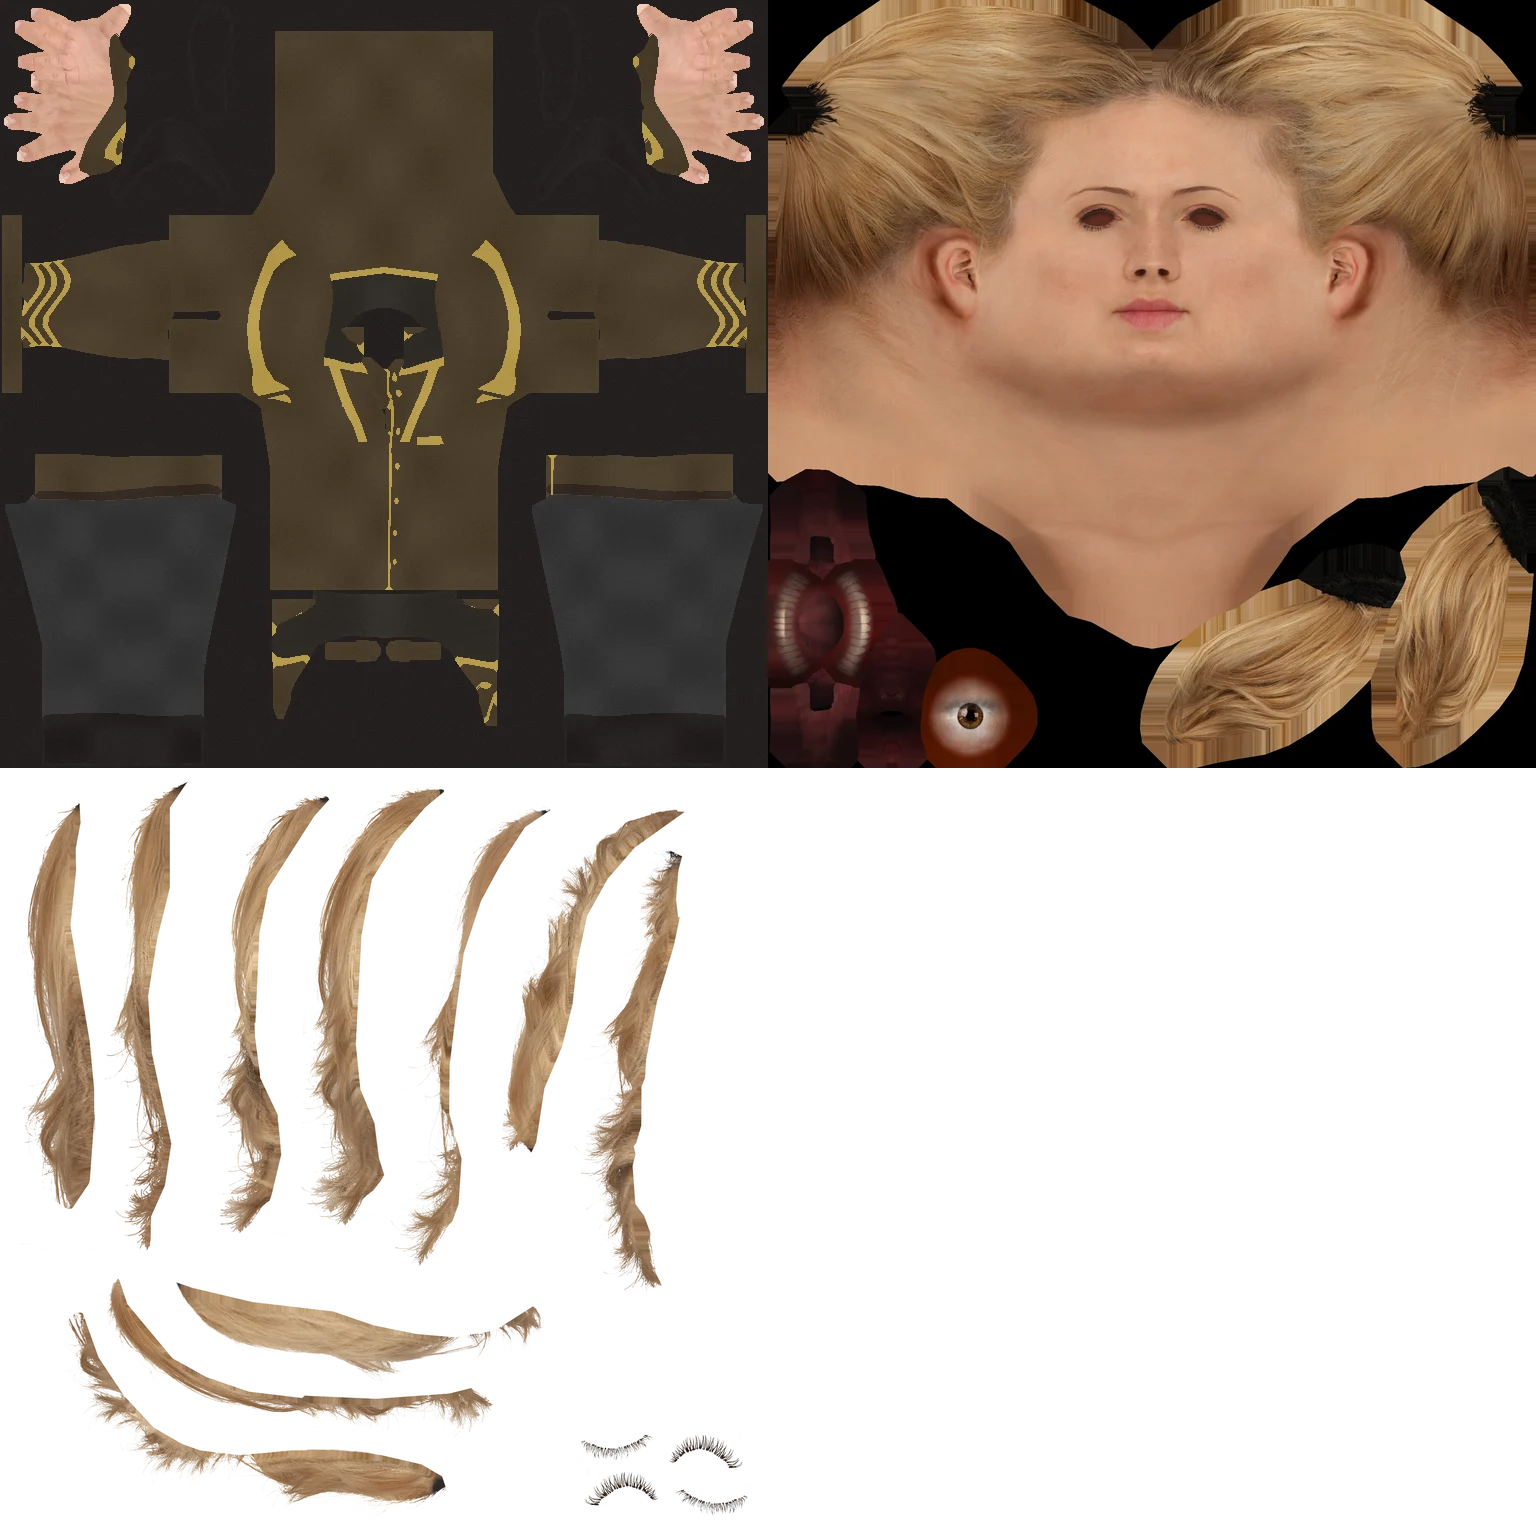
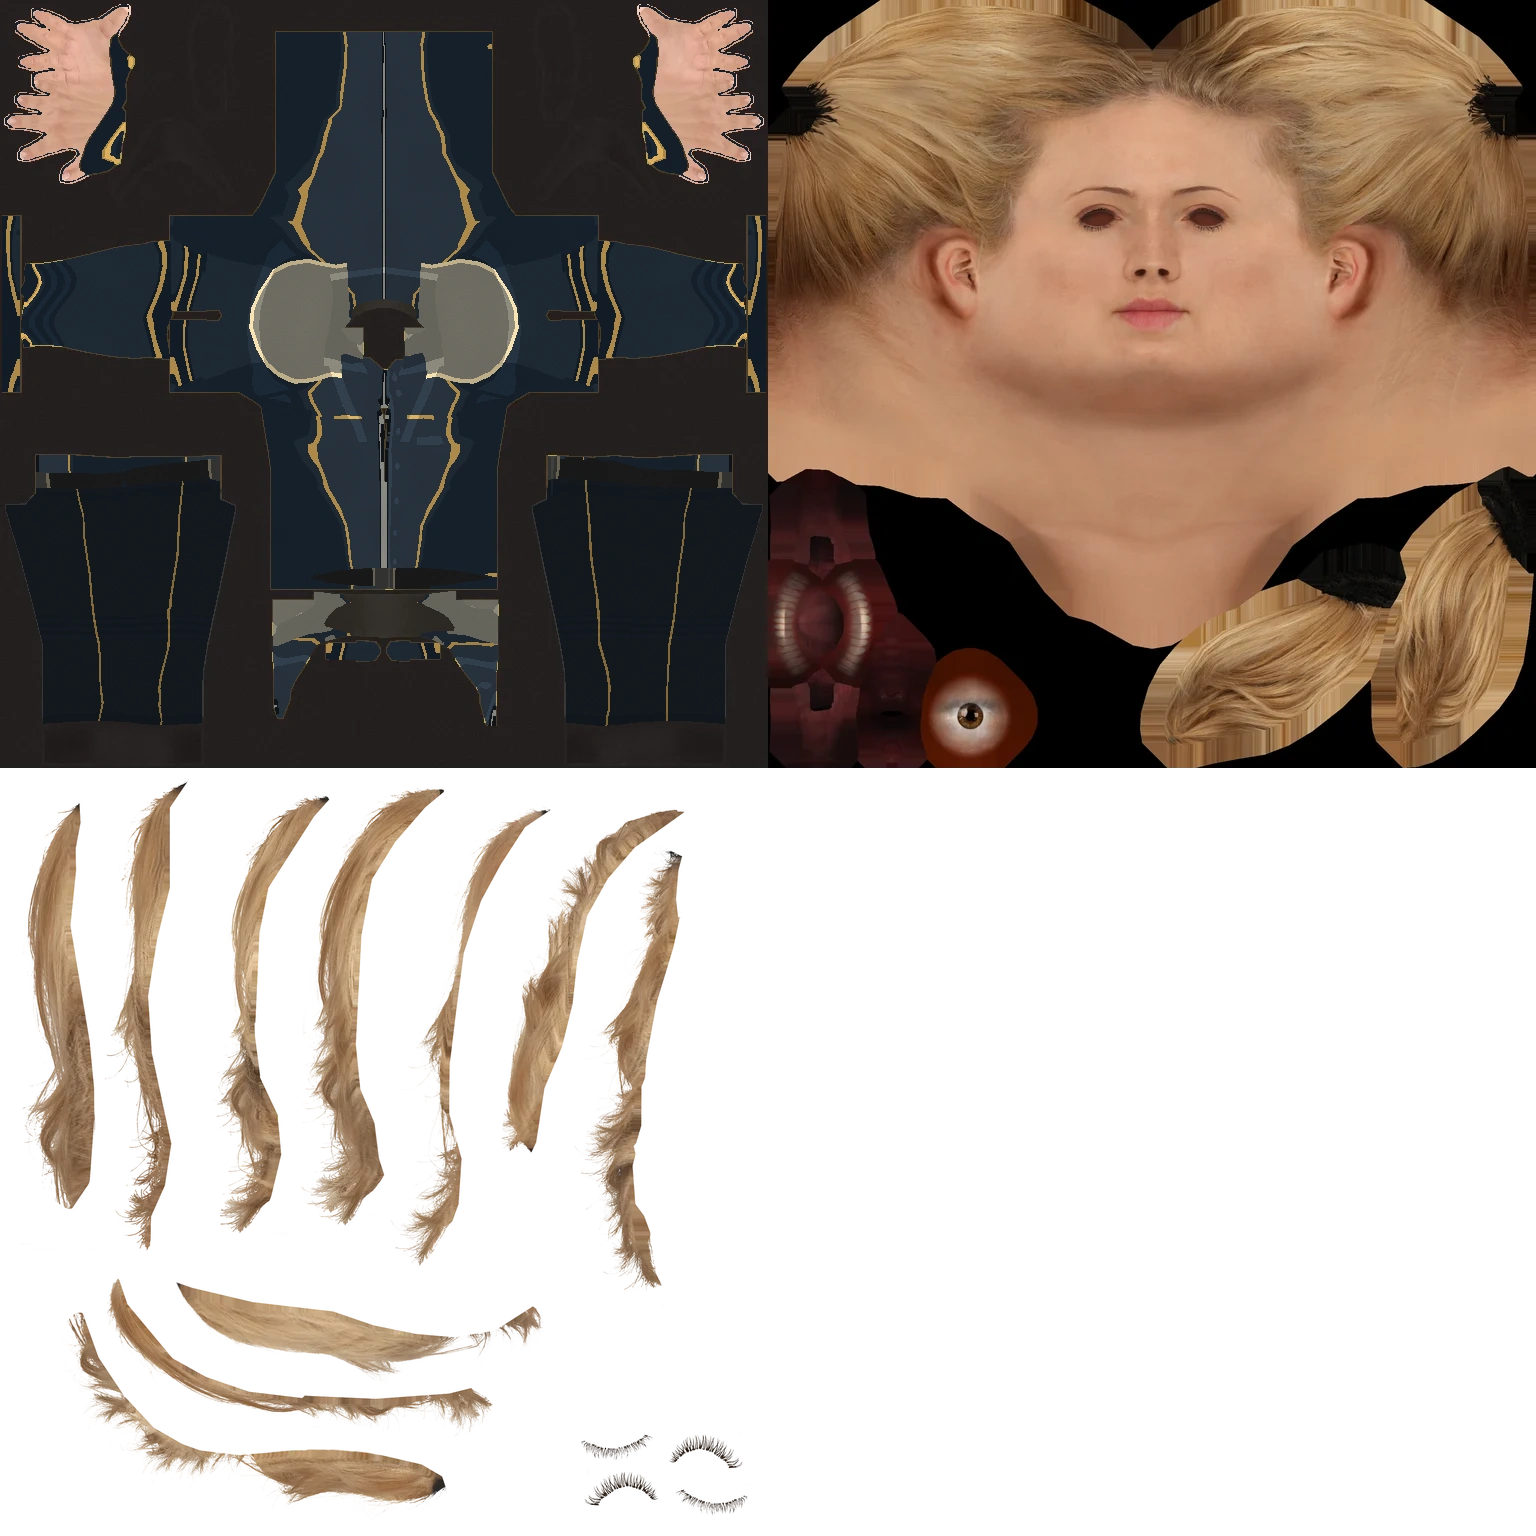
Tailor male and female pilot uniforms

diff --git a/index.html b/index.html
@@ -11,7 +11,7 @@
 <video id="lesson-film" muted playsinline loop controls></video><button id="lesson-next">Next teaching point</button><details><summary>Recorded briefing</summary><audio id="lesson-audio" controls></audio></details>
 <p id="lesson-copy" aria-live="off"></p><strong id="lesson-question"></strong><div id="lesson-answers"></div><p id="lesson-feedback" role="status"></p><button id="lesson-media">Screen media</button><button id="lesson-archive">Open the subject archive</button></dialog><dialog id="media-browser"><div class="bar"><h2 id="media-title">Screen media</h2><button id="media-close">Return</button></div><label>Search films or paste a video URL<input id="media-query" type="search" autocomplete="off" placeholder="EVE film, subject, YouTube or video URL"></label><div id="media-results"></div><a id="search-youtube" target="_blank" rel="noopener">Search YouTube</a><button id="media-lesson">Start this room’s lesson</button></dialog><dialog id="menu"><div class="bar"><h1>Deck directory</h1><button data-close aria-label="Close directory">✕</button></div><small id="render-mode">Compatibility renderer</small><label class="sky-select">Exterior view <select id="outside"><option>Aurora Reach</option><option>Amarr dusk</option><option>Blue Meridian</option></select></label><details id="wardrobe"><summary>Pilot appearance &amp; uniform</summary><div class="fitting-room"><canvas id="pilot-preview" aria-label="Your animated pilot"></canvas><div><label>Avatar <select id="pilot-body"><option value="female">Female</option><option value="male">Male</option></select></label><label>Complexion <select id="pilot-tone"><option value="0">Fair</option><option value="1">Light</option><option value="2">Warm medium</option><option value="3">Golden brown</option><option value="4">Deep brown</option><option value="5">Dark brown</option></select></label><label>Dress uniform <select id="uniform"><option value="imperial">Amarr Imperial Commander</option><option value="tribal">Minmatar Republic Commander</option></select></label><img id="jacket-reference" alt="EVE Online dress jacket item artwork" width="64" height="64"><small>In-game jacket reference</small></div></div></details><button id="mouse-look">Enable mouse look</button><div id="destinations"></div></dialog>
 <dialog id="record"><div class="bar"><h2 id="record-title"></h2><button data-close>Back to concourse</button></div><iframe title="EVE station archive"></iframe></dialog>
-<script src="concourse.js?v=sky-depth-14"></script><link rel="stylesheet" href="crew.css?v=deck-glass-12"><script src="city.js?v=glazed-vault-13"></script><script src="helm.js?v=glazed-vault-13"></script><script src="atmosphere.js?v=sky-depth-14"></script><script src="pilot-motion.js"></script><script src="pilot-renderer.js?v=deck-glass-12"></script><script src="nearby-voice.js"></script><script src="crew.js?v=flight-academy-9"></script><script src="palm.js?v=deck-glass-12"></script><script src="conservatory.js?v=deck-glass-12"></script><script src="interaction.js?v=flight-academy-9"></script><script src="intercom.js?v=flight-academy-9"></script><script src="station-audio.js"></script><script src="lessons.js"></script><script src="room-courses.js"></script><script src="salon.js?v=academy9"></script><script src="traversal.js"></script><script src="academy-stewards.js"></script><script src="screen-library.js"></script><script src="cinema.js?v=deck-glass-12"></script><script>
+<script src="concourse.js?v=sky-depth-14"></script><link rel="stylesheet" href="crew.css?v=deck-glass-12"><script src="city.js?v=glazed-vault-13"></script><script src="helm.js?v=glazed-vault-13"></script><script src="atmosphere.js?v=sky-depth-14"></script><script src="pilot-motion.js"></script><script src="pilot-renderer.js?v=tailoring15"></script><script src="nearby-voice.js"></script><script src="crew.js?v=flight-academy-9"></script><script src="palm.js?v=deck-glass-12"></script><script src="conservatory.js?v=deck-glass-12"></script><script src="interaction.js?v=flight-academy-9"></script><script src="intercom.js?v=flight-academy-9"></script><script src="station-audio.js"></script><script src="lessons.js"></script><script src="room-courses.js"></script><script src="salon.js?v=academy9"></script><script src="traversal.js"></script><script src="academy-stewards.js"></script><script src="screen-library.js"></script><script src="cinema.js?v=deck-glass-12"></script><script>
 (() => {
   // Two glazed winter gardens flank the central path. The same facets and
   // structural members feed both the CSS camera and the hardware renderer.
@@ -59,6 +59,10 @@
     rise();window.stationCity?.reset();
     Object.assign(visitor,{x:0,z:4070,yaw:Math.PI-.18,pitch:.09});
     draw();
+  }
+  if(location.hash==='#fitting-room'){
+    document.getElementById('wardrobe').open=true;
+    document.getElementById('menu').showModal();
   }
   enterGarden();
   window.addEventListener('hashchange',enterGarden);

diff --git a/pilot-renderer.js b/pilot-renderer.js
@@ -21,7 +21,7 @@ async function loadUniform(key){
   uniformModels.set(key,null);
   try{
     const base='assets/crew/',[body,suit,tone]=key.split('-'),image=new Image(),mask=new Image(),surface=new Image();
-    image.src=base+body+'-'+suit+'.webp?v=academy7';mask.src=base+body+'-skin.webp';surface.src=base+body+'-surface.webp';
+    image.src=base+body+'-'+suit+'.webp?v=tailoring15';mask.src=base+body+'-skin.webp';surface.src=base+body+'-surface.webp';
     const [buf,,motions]=await Promise.all([fetch(base+key.split('-')[0]+'.mesh').then(r=>{if(!r.ok)throw Error();return r.arrayBuffer()}),image.decode(),motionFor(body),mask.decode(),surface.decode()]);
     const [count,ic,frames]=new Uint32Array(buf,0,3),indices=new Uint16Array(buf,12,ic),off=12+ic*2;
     const uv=new Uint16Array(buf,off,count*2),mesh=new Int16Array(buf,off+count*4);
